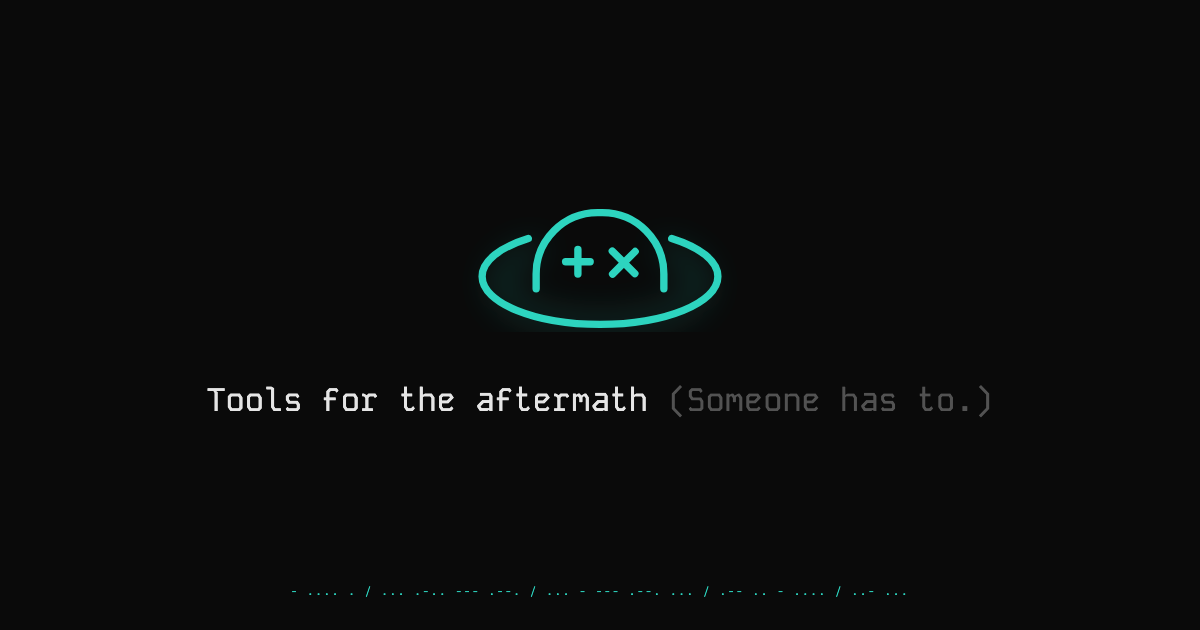
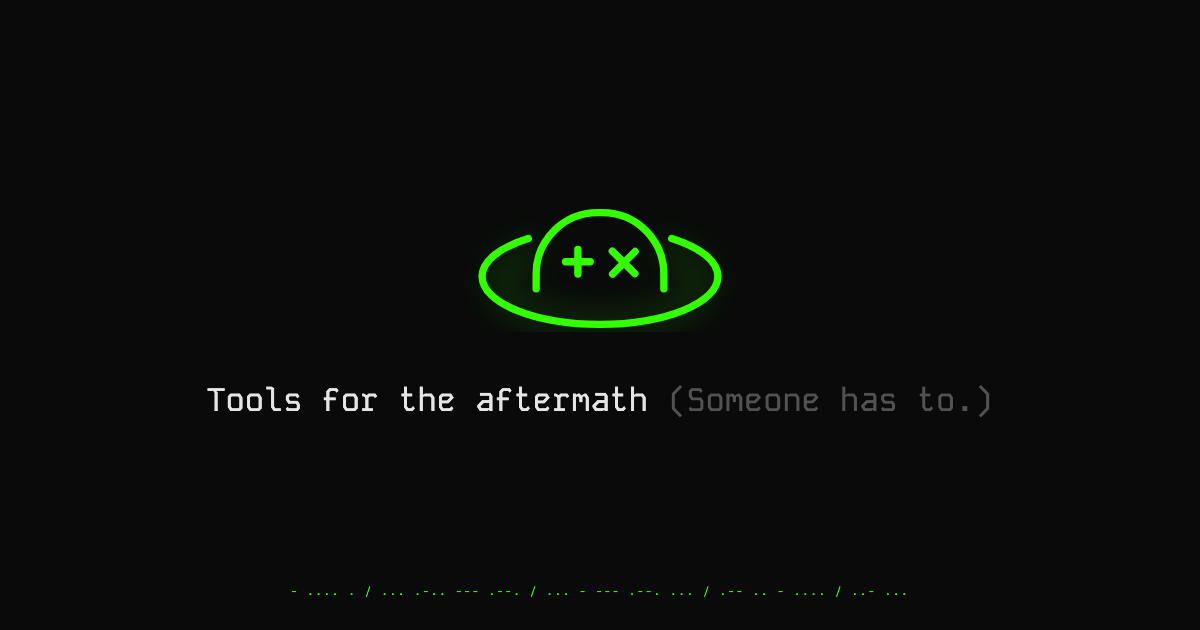
style: change accent color from teal to phosphor green
Replace #2dd4bf with #33ff00 across site, favicon, and OG image.
Light mode uses #15803d for contrast.

Changed region(s): [[0.4008, 0.3317, 0.6167, 0.5429]]

diff --git a/site/og-template.html b/site/og-template.html
@@ -20,7 +20,7 @@
       flex-direction: column;
       align-items: center;
       justify-content: center;
-      color: #2dd4bf;
+      color: #33ff00;
     }
 
     .logo {
@@ -45,7 +45,7 @@
       right: 0;
       text-align: center;
       font-size: 11px;
-      color: #2dd4bf;
+      color: #33ff00;
       letter-spacing: 0.15em;
     }
   </style>
@@ -57,13 +57,13 @@
         <feGaussianBlur in="SourceGraphic" stdDeviation="14"/>
       </filter>
     </defs>
-    <path opacity="0.46" filter="url(#glow)" d="M63.5 33C43.74 39.23 31 49 31 60C31 78.78 68.16 94 114 94C159.84 94 197 78.78 197 60C197 49 184.26 39.23 164.5 33" stroke="#2dd4bf" stroke-width="6" stroke-linecap="round"/>
-    <path d="M166 65V53C166 25.39 143.61 3 116 3H112C84.39 3 62 25.39 62 53V65" stroke="#2dd4bf" stroke-width="6" stroke-linecap="round"/>
-    <path d="M55.59 24C32.73 31.13 18 42.35 18 54.97C18 76.53 60.98 94 114 94C167.02 94 210 76.53 210 54.97C210 42.35 195.27 31.13 172.41 24" stroke="#2dd4bf" stroke-width="6" stroke-linecap="round"/>
-    <rect x="93" y="56" width="26" height="6" rx="3" transform="rotate(-90 93 56)" fill="#2dd4bf"/>
-    <rect x="83" y="40" width="26" height="6" rx="3" fill="#2dd4bf"/>
-    <rect x="120" y="53" width="32" height="6" rx="3" transform="rotate(-45 120 53)" fill="#2dd4bf"/>
-    <rect x="124" y="30" width="32" height="6" rx="3" transform="rotate(45 124 30)" fill="#2dd4bf"/>
+    <path opacity="0.46" filter="url(#glow)" d="M63.5 33C43.74 39.23 31 49 31 60C31 78.78 68.16 94 114 94C159.84 94 197 78.78 197 60C197 49 184.26 39.23 164.5 33" stroke="#33ff00" stroke-width="6" stroke-linecap="round"/>
+    <path d="M166 65V53C166 25.39 143.61 3 116 3H112C84.39 3 62 25.39 62 53V65" stroke="#33ff00" stroke-width="6" stroke-linecap="round"/>
+    <path d="M55.59 24C32.73 31.13 18 42.35 18 54.97C18 76.53 60.98 94 114 94C167.02 94 210 76.53 210 54.97C210 42.35 195.27 31.13 172.41 24" stroke="#33ff00" stroke-width="6" stroke-linecap="round"/>
+    <rect x="93" y="56" width="26" height="6" rx="3" transform="rotate(-90 93 56)" fill="#33ff00"/>
+    <rect x="83" y="40" width="26" height="6" rx="3" fill="#33ff00"/>
+    <rect x="120" y="53" width="32" height="6" rx="3" transform="rotate(-45 120 53)" fill="#33ff00"/>
+    <rect x="124" y="30" width="32" height="6" rx="3" transform="rotate(45 124 30)" fill="#33ff00"/>
   </svg>
 
   <p class="tagline">Tools for the aftermath <span>(Someone has to.)</span></p>

diff --git a/site/styles.css b/site/styles.css
@@ -4,7 +4,7 @@
 @property --accent {
   syntax: '<color>';
   inherits: true;
-  initial-value: #2dd4bf;
+  initial-value: #33ff00;
 }
 
 * {
@@ -18,13 +18,13 @@
   --text: #e5e5e5;
   --text-dim: #a3a3a3;
   --text-muted: #525252;
-  --accent: #2dd4bf;
+  --accent: #33ff00;
   animation: accent-cycle 12s ease-in-out infinite;
 }
 
 /* Color cycle - high contrast colors for both modes */
 @keyframes accent-cycle {
-  0%, 100% { --accent: #2dd4bf; }   /* teal */
+  0%, 100% { --accent: #33ff00; }   /* phosphor green */
   16% { --accent: #a78bfa; }         /* violet */
   33% { --accent: #f472b6; }         /* pink */
   50% { --accent: #fb923c; }         /* orange */
@@ -39,7 +39,7 @@
     --text: #171717;
     --text-dim: #525252;
     --text-muted: #a3a3a3;
-    --accent: #14b8a6;
+    --accent: #15803d;
   }
 }
 
@@ -49,7 +49,7 @@
   --text: #171717;
   --text-dim: #525252;
   --text-muted: #a3a3a3;
-  --accent: #14b8a6;
+  --accent: #15803d;
 }
 
 body {

diff --git a/site/index.html b/site/index.html
@@ -152,7 +152,7 @@
 
     // Animated favicon - smooth color interpolation
     const colors = [
-      [45, 212, 191],   // teal #2dd4bf
+      [51, 255, 0],     // phosphor green #33ff00
       [167, 139, 250],  // violet #a78bfa
       [244, 114, 182],  // pink #f472b6
       [251, 146, 60],   // orange #fb923c
